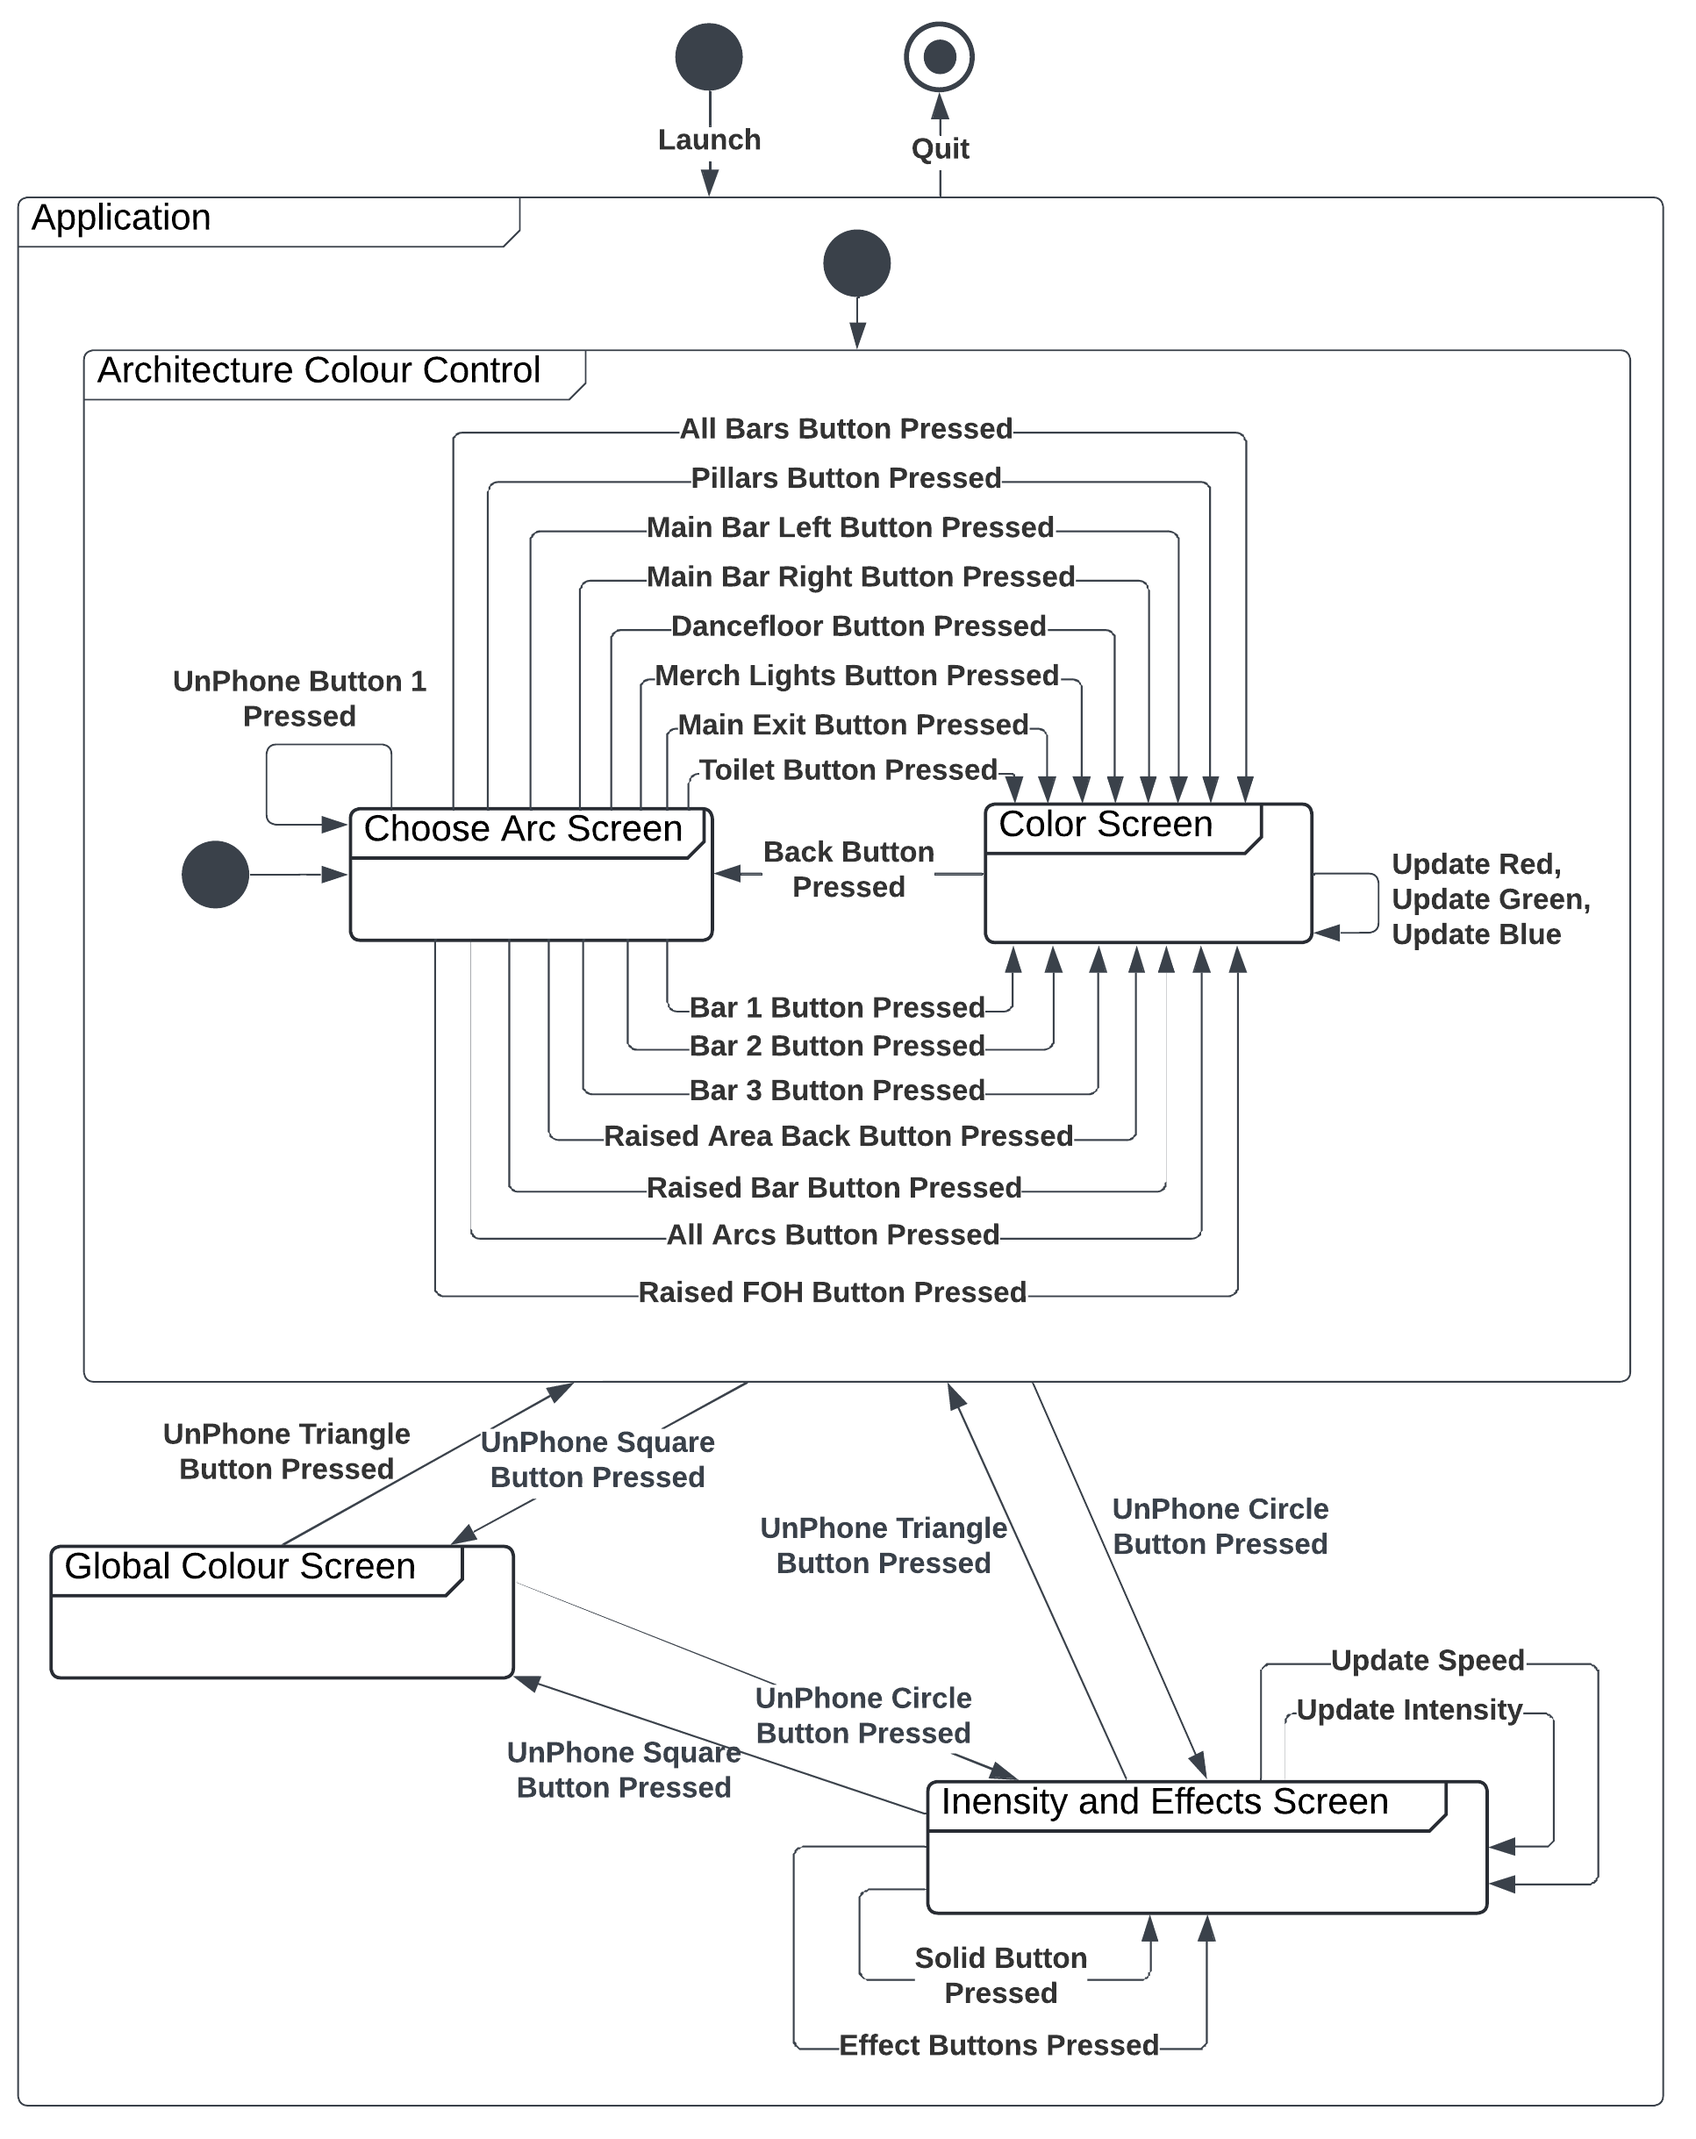
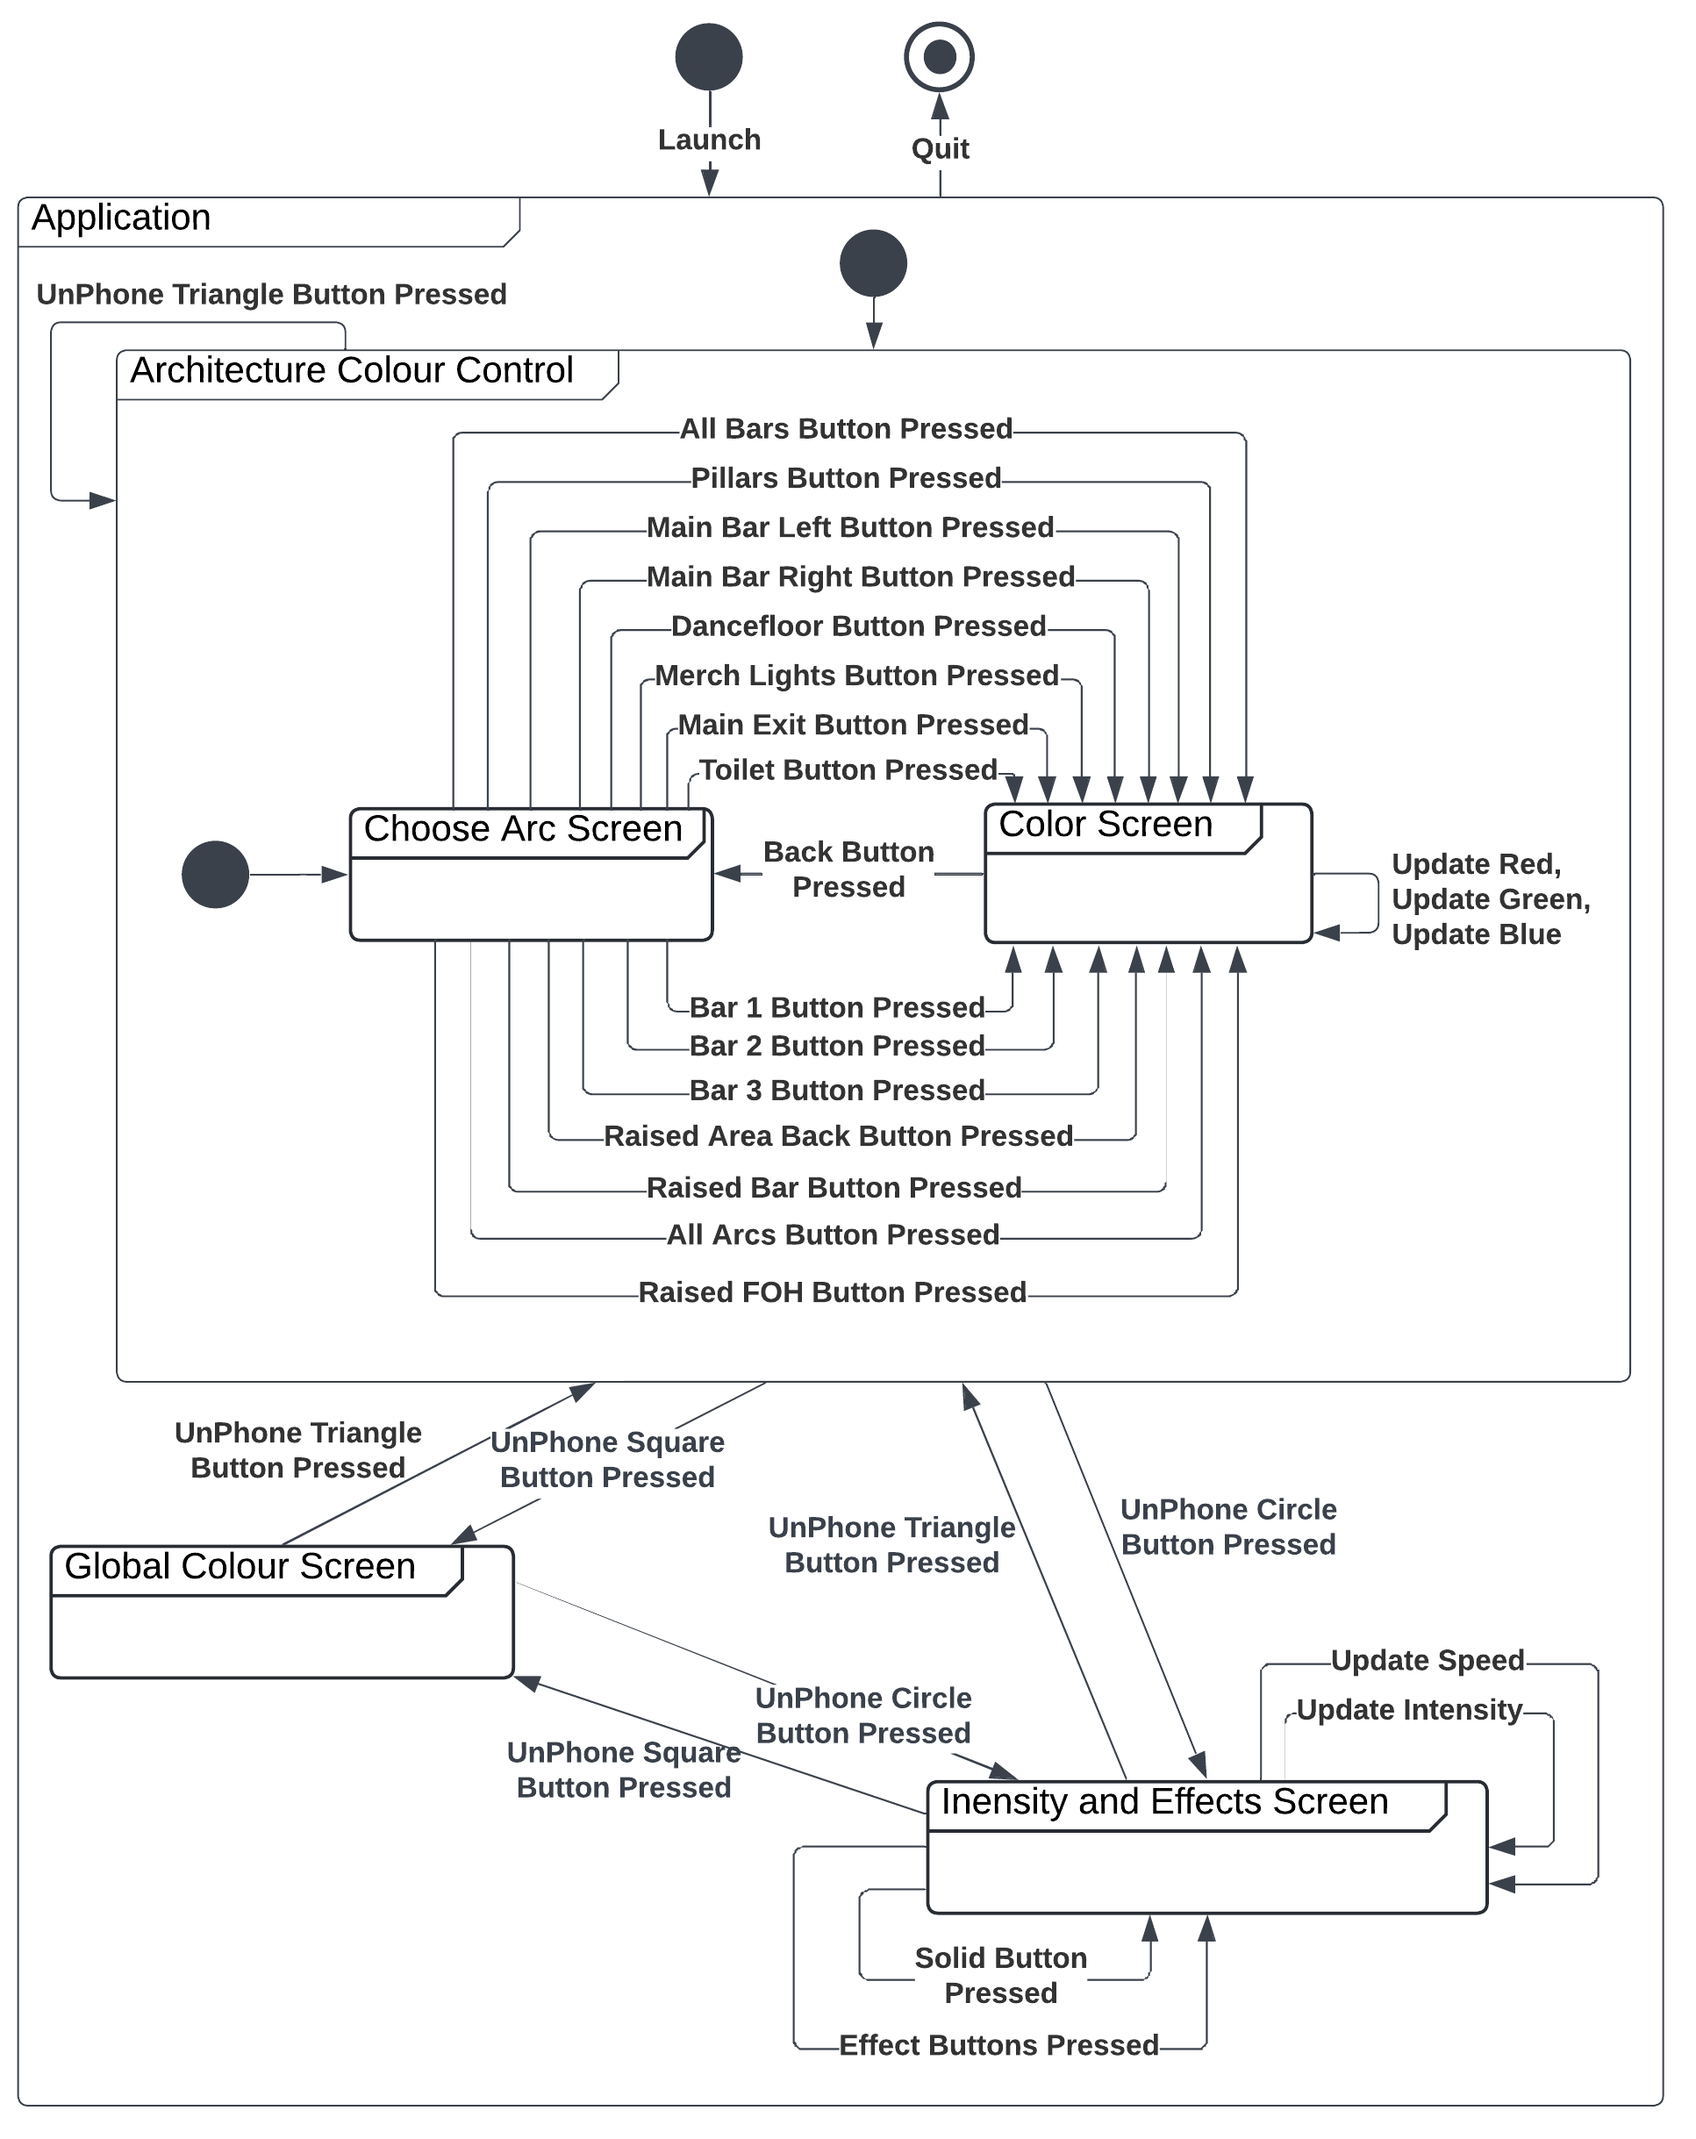
Updated images and descriptions in readme.

diff --git a/README.md b/README.md
@@ -13,7 +13,6 @@ Permission was requested and granted from (the lighting people) for access to it
 
 ### Application Features
 
-<center>
 
 | Feature | Description |
 | ------------------------------------------------- | ------------------------------------------------------------------------------------------------------------------------------------------------------------------------------------------------------------------------------------------------------------------------------------- |
@@ -24,13 +23,12 @@ Permission was requested and granted from (the lighting people) for access to it
 | Default Effects | Allow the user to visualise lighting animations, from a pre-defined, set of effects.|
 | Intensity and Speed | Provide the user with the ability to utilise faders to control the speed of effects and the lighting intensity. |
 | Global Colour View | For a global view of colours, the user must be able to visualise every single architecture and its currently set colour on one screen. 
-| UnPhone Buttons (Triangle, Circle and Square) | UnPhone will be utilised for navigation. Therefore, there must be three main screens architecture selection, setting *effects and intensity, and global colour view. Setting a colour must be navigated to via the architecture screen. |
+| UnPhone Buttons (Triangle, Circle and Square) | UnPhone will be utilised for navigation. Therefore, there must be three main screens architecture selection, setting effects and intensity, and global colour view. Setting a colour must be navigated to via the architecture screen. |
 
-</center>
 
 ### Architectures
 
-<center>
+<p style="color: red;">(Alex please describe what architectures are and fill in the table below)</p>
 
 | Architecture | Number of Lights in Group |
 | ------------ | ------------------------- |
@@ -43,13 +41,10 @@ Permission was requested and granted from (the lighting people) for access to it
 | g            | o                         |
 | h            | p                         |
 
-</center>
 
 ### Default Colour Options
 
 The default colours the user can select from have been decided from the 12 colour wheel, as illustrated below. This presents the user with a sufficient number of default colours as well as the ability to create custom colours using RGB faders.
-
-<center>
 
 |       | Red | Rose | Magenta | Violet | Blue | Azure | Cyan | Aquamarine | Green | Chartreuse | Yellow | Orange |
 | ----- | --- | ---- | ------- | ------ | ---- | ----- | ---- | ---------- | ----- | ---------- | ------ | ------ |
@@ -57,11 +52,10 @@ The default colours the user can select from have been decided from the 12 colou
 | **G** | 0   | 0    | 0       | 0      | 0    | 127   | 255  | 255        | 255   | 255        | 255    | 127    |
 | **B** | 0   | 127  | 255     | 255    | 255  | 255   | 255  | 127        | 0     | 0          | 0      | 0      |
 
-</center>
 
 ### Lighting Effects
 
-<center>
+<p style="color: red;">(Alex please fill in the table below)</p>
 
 | Effect Name | Description |
 | ----------- | ----------- |
@@ -74,35 +68,33 @@ The default colours the user can select from have been decided from the 12 colou
 | g           | o           |
 | h           | p           |
 
-</center>
-
 ### User Interface
 
-The application will consist of four main screens:
+**The user interface must be:**
+- Simple and easy to use.
+- Large enough buttons to prevent misclicks.
+- Contrasting text against background for accessability.
+- Large enough text for ease of readability.
 
-<center>
+**The application will consist of four main screens:**
 
 | Screen | Navigation | Description | Interactive Screen |
 | ---------------------------- | ------------------------ | --------------------------------------------------------------------------------------------------------------------------------------------------- | ------------------ |
 | Architecture Screen | Physical Triangle Button | Presents the user with buttons to choose an architecture that they would like to change the colours for. | YES |
 | Colour Screen | From Architecture Screen | Presents the user with default colour options as well as RGB faders for custom colours. | YES |
 | Effects and Intensity Screen | Physical Circle Button | Presents the user with two faders; intensity of lighting and speed of effects. Furthermore, buttons will be presented for various lighting effects. | YES |
-| Global Colour Screen | Physical Square Button | Presents the user with all architectures with its current lighting colour (black if the corresponding architecture is OFF). | NO|
+| Global Colour Screen | Physical Square Button | Presents the user with all architectures with their current lighting colours (black if the corresponding architecture is OFF). | NO |
 
-</center>
+**Wireframes illustrating the designs of the screens:**
 
-Wireframes illustrating the designs of the screens:
+<img src="images/wireframe-screens.png" alt="breadboard" width="650"/>
+<img src="images/wireframe-navigation-buttons.png" alt="breadboard" width="247"/>
 
-<center>
-<img src="images/wireframe-screens.png" alt="breadboard" width="700"/>
-<img src="images/wireframe-navigation-buttons.png" alt="breadboard" width="250"/>
-</center>
+**Diagram illustrating the connection and navigation between different screens:**
 
-Diagram to illustrate the connection and navigation between different screens:
+As presented in the diagram, three screens can be navigated to using the physical UnPhone buttons. These can be navigated to regardless of the current screen the user is on. To enter the colour screen, the user must press the architecture that requires its colour to be changed. The user can then navigate back to the architecture screen by pressing **Back** or the UnPhone triangle button.
 
-<center>
-<img src="images/navigation-diagram.png" alt="breadboard" width="350"/>
-</center>
+<img src="images/navigation-diagram.png" alt="breadboard" width="400"/>
 
 ### Networking and Backend
 
@@ -111,6 +103,10 @@ Temporary text.
 ## Implementation
 
 ### UnPhone to NuPhone
+
+Temporary text.
+
+### User Interface and LVGL
 
 Temporary text.
 
